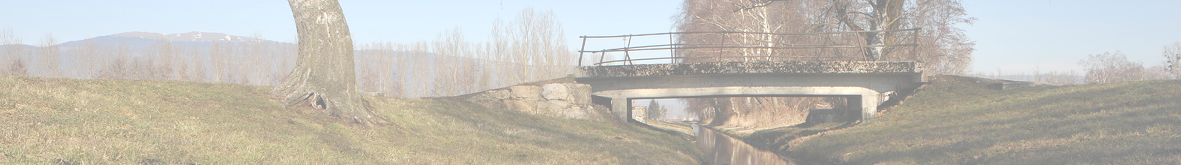
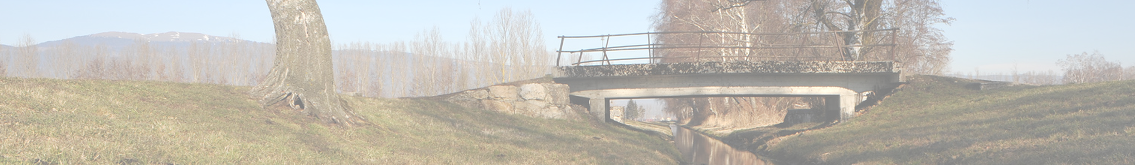
Update feature "config", "i18n"
- remove duplicate header backgrounds
- adjust size of header backgrounds to be all the same
- update block configuration

diff --git a/sites/all/themes/n52_wieu_theme/html.tpl.php b/sites/all/themes/n52_wieu_theme/html.tpl.php
@@ -351,8 +351,30 @@
 		  $('#edit-submit-advanced-event-search').trigger('click');
 		  $('#edit-submit-view-advanced-search-organsations').trigger('click');
 	  });
-  	})(jQuery); 
+  	})(jQuery);
   	</script>
+  	<?php 
+	  /*
+	   * This function clones the search form on the match making page and puts it 
+	   * to the regarding accordion section.
+	   * In addition the original search form is disabled.
+	   */
+	  ?>
+	  <script type="text/javascript">
+	  (function($) {
+	    $(document).ready(function () {
+	  	   $('#custom-search-blocks-form-1').clone(true,true).appendTo('#search-form-duplicate');
+	  	   var elem = $('div.content > form > div > div > input#edit-custom-search-blocks-form-1--2');
+		   elem.prop('disabled','true');
+		   elem.attr('placeholder','<?php print t('disabled here'); ?>');
+		   elem.attr('title','<?php print t('please use the search form down below!'); ?>');
+		   var elem2 = $('div#search-form-duplicate > form > div > div > #edit-custom-search-blocks-form-1--2'); 
+	  	   elem2.css('width','100%');
+	  	   elem2.attr('size','60');
+	  	   $('div#search-form-duplicate > form').css('float','initial');
+	    });
+	  })(jQuery);
+	  </script>
   <?php } ?>
   <?php 
   /*
@@ -523,7 +545,7 @@
 					(function($) {
 						$(document).ready(function () {   
 							$("#join-us-sign-up-button").remove();
-							$("h1.page-title").text(<?php print t("My Actions"); ?>;
+							$("h1.page-title").text('<?php print t("My Actions"); ?>');
 						});
 					})(jQuery);
 			</script>

diff --git a/sites/all/themes/n52_wieu_theme/block--block--6.tpl.php b/sites/all/themes/n52_wieu_theme/block--block--6.tpl.php
@@ -33,6 +33,8 @@
  */
 ?>
 <div id="advanced-search-block" class="<?php print $classes; ?>"<?php print $attributes; ?>>
+	<h2><?php print t("Search"); ?></h2>
+	<div id="search-form-duplicate"></div>
 	<h2 class="pane-title"><?php print $block->subject; ?></h2>
 	<div id="advanced-search-instructions">
 	 	<?php print $content ?>
